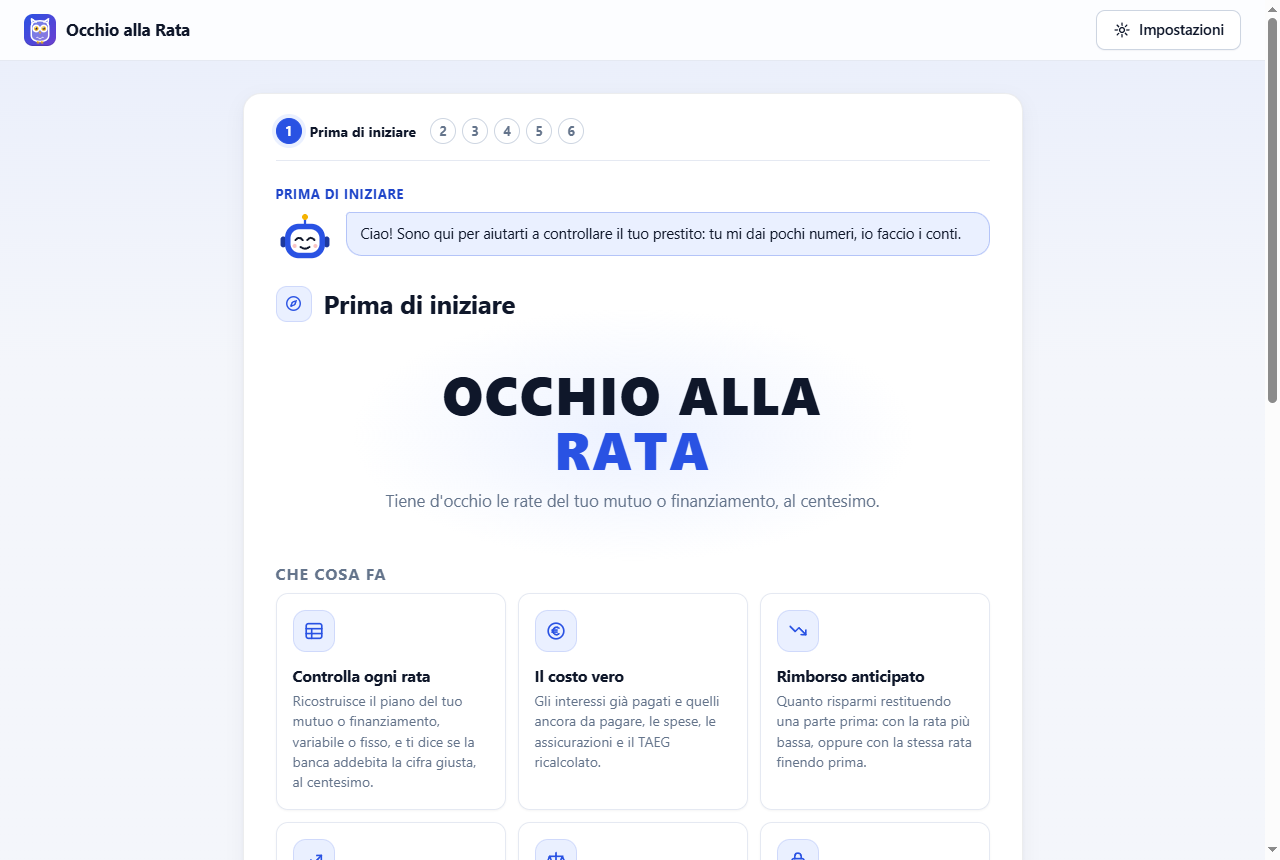
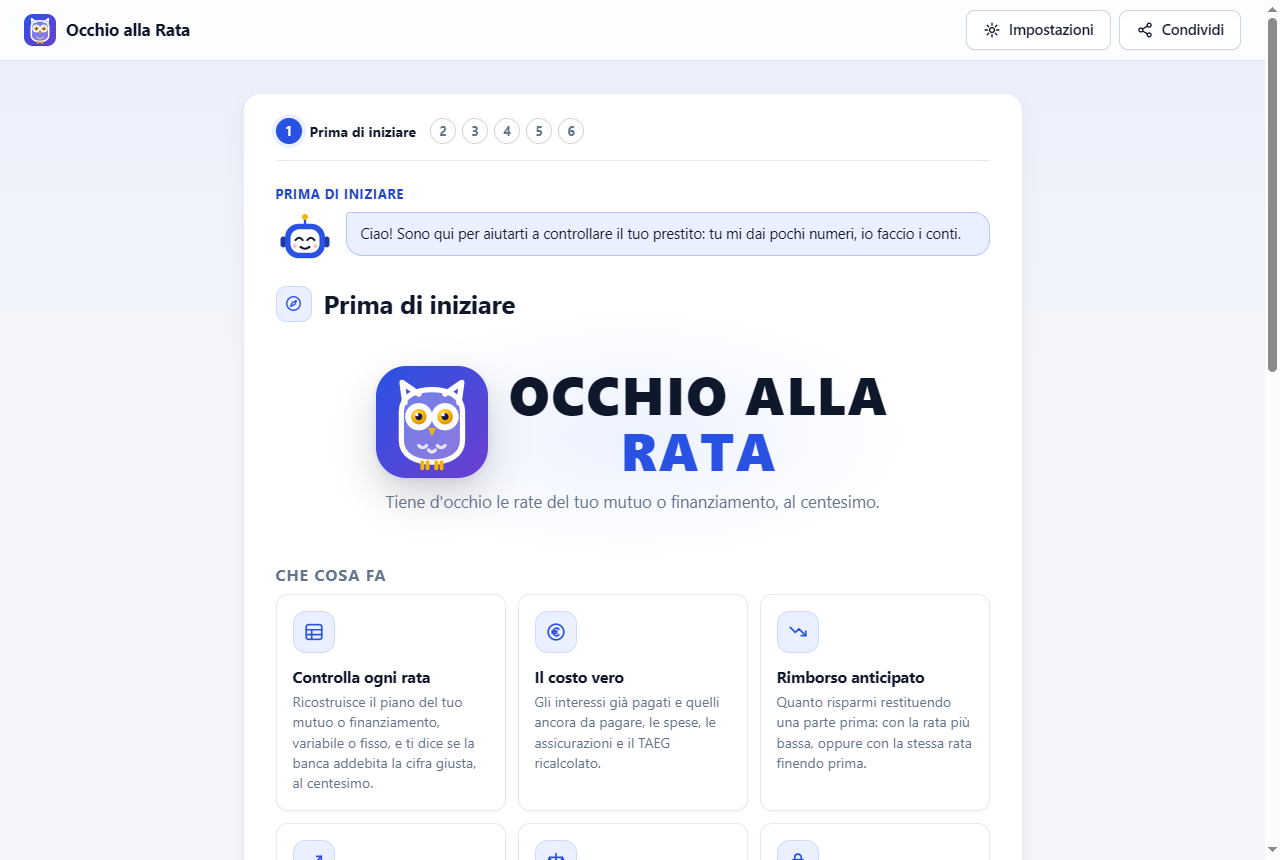
Schermate del README rifatte con le novità
Le otto schermate di docs/immagini (non l'anteprima per i social) non
mostravano più la pagina com'è: mancavano «Condividi» accanto a
Impostazioni e il gufo accanto alla scritta di benvenuto. Rifatte con i
prestiti di «Prova con degli esempi», copiati come dati normali in un
profilo di prova, con le animazioni ferme. Aggiornata la descrizione della
schermata Tassi (Euribor 3 mesi dal 2021) e la sezione 31.

diff --git a/docs/progetto-generale.md b/docs/progetto-generale.md
@@ -817,7 +817,7 @@ Nel repository c'è un file vuoto `.nojekyll` (25 ottobre 2026): dice a GitHub P
 Chiesto dall'utente: "possiamo migliorare il github in modo da presentare bene il progetto?", prima di renderlo pubblico.
 
 - **README**: in testa logo, nome, la frase «La banca ti addebita la rata giusta? Controllalo al centesimo.», i collegamenti (l'app su GitHub Pages, come si usa, domande, documentazione, contribuire) e due schermate, computer e telefono. Poi «Perché», «Che cosa fa», «I tuoi dati restano tuoi», una tabella di schermate, «Come si usa» (telefono, computer, primi passi) e le domande frequenti. La guida dettagliata di prima è intatta, dentro un riquadro richiudibile (`<details>`); le sezioni tecniche restano in fondo, con in più «Segnalazioni e contributi». I collegamenti alle segnalazioni sono relativi (`../../issues/new/choose`), così valgono anche se il repository cambia nome o proprietario.
-- **Schermate** (`docs/immagini/`, circa 2 MB): piano, tassi con la proiezione, costi e rimborso, offerte, benvenuto, tema Terminale, telefono chiaro e scuro. Sono fatte con **dati inventati** (un mutuo variabile «Casa al mare» di 180.000 € sull'Euribor 6 mesi, le cui rate passate sono prese dal calcolo, un finanziamento auto con maxirata e due offerte), da Edge senza finestra con lo script `crea-schermate.js` (nella cartella temporanea della sessione, non conservato): carica i dati con `Archivio.importa`, riempie le rate passate con `POST rate` dal piano calcolato, e fotografa a 1440×900 e a 390×844 (doppia densità). Vanno rifatte quando l'aspetto cambia molto.
+- **Schermate** (`docs/immagini/`, circa 2 MB): piano, tassi con la proiezione, costi e rimborso, offerte, benvenuto, tema Terminale, telefono chiaro e scuro. Sono fatte con **dati inventati** (un mutuo variabile «Casa al mare» di 180.000 € sull'Euribor 6 mesi, le cui rate passate sono prese dal calcolo, un finanziamento auto con maxirata e due offerte), da Edge senza finestra con lo script `crea-schermate.js` (nella cartella temporanea della sessione, non conservato): carica i dati con `Archivio.importa`, riempie le rate passate con `POST rate` dal piano calcolato, e fotografa a 1440×900 e a 390×844 (doppia densità). Vanno rifatte quando l'aspetto cambia molto. **Rifatte il 26 ottobre 2026** (chiesto dall'autore: GitHub va aggiornato con tutte le novità; mancavano «Condividi», il gufo accanto alla scritta di benvenuto e le pagine di oggi) con i prestiti di «Prova con degli esempi» (sezione 38: mutuo variabile «Casa al mare» sull'Euribor 3 mesi, le due offerte), copiati come dati normali in un profilo di prova perché non comparisse la striscia degli esempi; robottino richiuso, versione semplice, il variabile come principale, e «riduci movimento» attivo (`prefers-reduced-motion` emulato), così nessuna foto prende un'animazione a metà. Lo script, `crea-schermate.js`, sta nella cartella temporanea della sessione: per rifarle basta ripetere questi passi.
 - **Anteprima per i social** (`docs/immagini/anteprima-social.png`, 1280×640, sotto 1 MB come chiede GitHub): logo, nome, frase, tre punti e il telefono. Non si mostra da sola: va caricata a mano (sotto).
 - **Anteprima del link al sito** (25 ottobre 2026, chiesta per condividere il sito su LinkedIn): in testa a `index.html` ci sono la descrizione per i motori di ricerca (`description`) e i tag Open Graph e Twitter (titolo, descrizione, indirizzo, immagine). Quando il link al sito si incolla su LinkedIn, WhatsApp, Telegram o Facebook compare un riquadro con `anteprima-social.png`. L'immagine e l'indirizzo sono scritti per intero (`https://alessandrosallam-sys.github.io/occhio-alla-rata/…`), perché i social non accettano percorsi relativi: se il sito cambia indirizzo vanno aggiornati. `sw.js` non li mette nella copia offline: legge solo `src` e `href` senza `:`. LinkedIn tiene in memoria l'anteprima già vista: per rinfrescarla c'è il suo Post Inspector (https://www.linkedin.com/post-inspector/).
   **Dal 26 ottobre 2026** l'immagine dei tag è `anteprima-social.jpg`, una copia JPEG di 99 KB della PNG (478 KB). Più fonti riportano che WhatsApp non mostra l'immagine dell'anteprima oltre circa 300 KB (non c'è un limite scritto da WhatsApp): con la PNG il link arrivava senza figura. La copia l'ha fatta Edge senza finestra (la PNG mostrata a 1280×640 e fotografata in JPEG con qualità 86, script nella cartella temporanea della sessione): se si rifà la PNG, va rifatta anche lei. La PNG resta per GitHub (Social preview, fino a 1 MB). WhatsApp tiene in memoria l'anteprima di un link già mandato.

diff --git a/README.md b/README.md
@@ -54,7 +54,7 @@ Tutte con dati inventati.
 
 | | |
 |---|---|
-| <img src="docs/immagini/tassi.png" alt="La pagina Tassi: l'Euribor 6 mesi dal 2022, con la proiezione in avanti e le fasce di incertezza"> | <img src="docs/immagini/costi.png" alt="Costi e rimborso: quanto costa il prestito e la simulazione dell'estinzione anticipata"> |
+| <img src="docs/immagini/tassi.png" alt="La pagina Tassi: l'Euribor 3 mesi dal 2021, con la proiezione in avanti e le fasce di incertezza"> | <img src="docs/immagini/costi.png" alt="Costi e rimborso: quanto costa il prestito e la simulazione dell'estinzione anticipata"> |
 | **Tassi e previsioni**: la storia dell'Euribor e dove potrebbe andare | **Costi e rimborso**: costo totale, TAEG, estinzione anticipata |
 | <img src="docs/immagini/offerte.png" alt="Il confronto di due offerte di mutuo, fisso e variabile"> | <img src="docs/immagini/benvenuto.png" alt="La pagina di benvenuto alla prima apertura"> |
 | **Confronto delle offerte**: quale costa meno, prima di firmare | **La prima apertura**: poche domande, il resto lo capisce lui |
